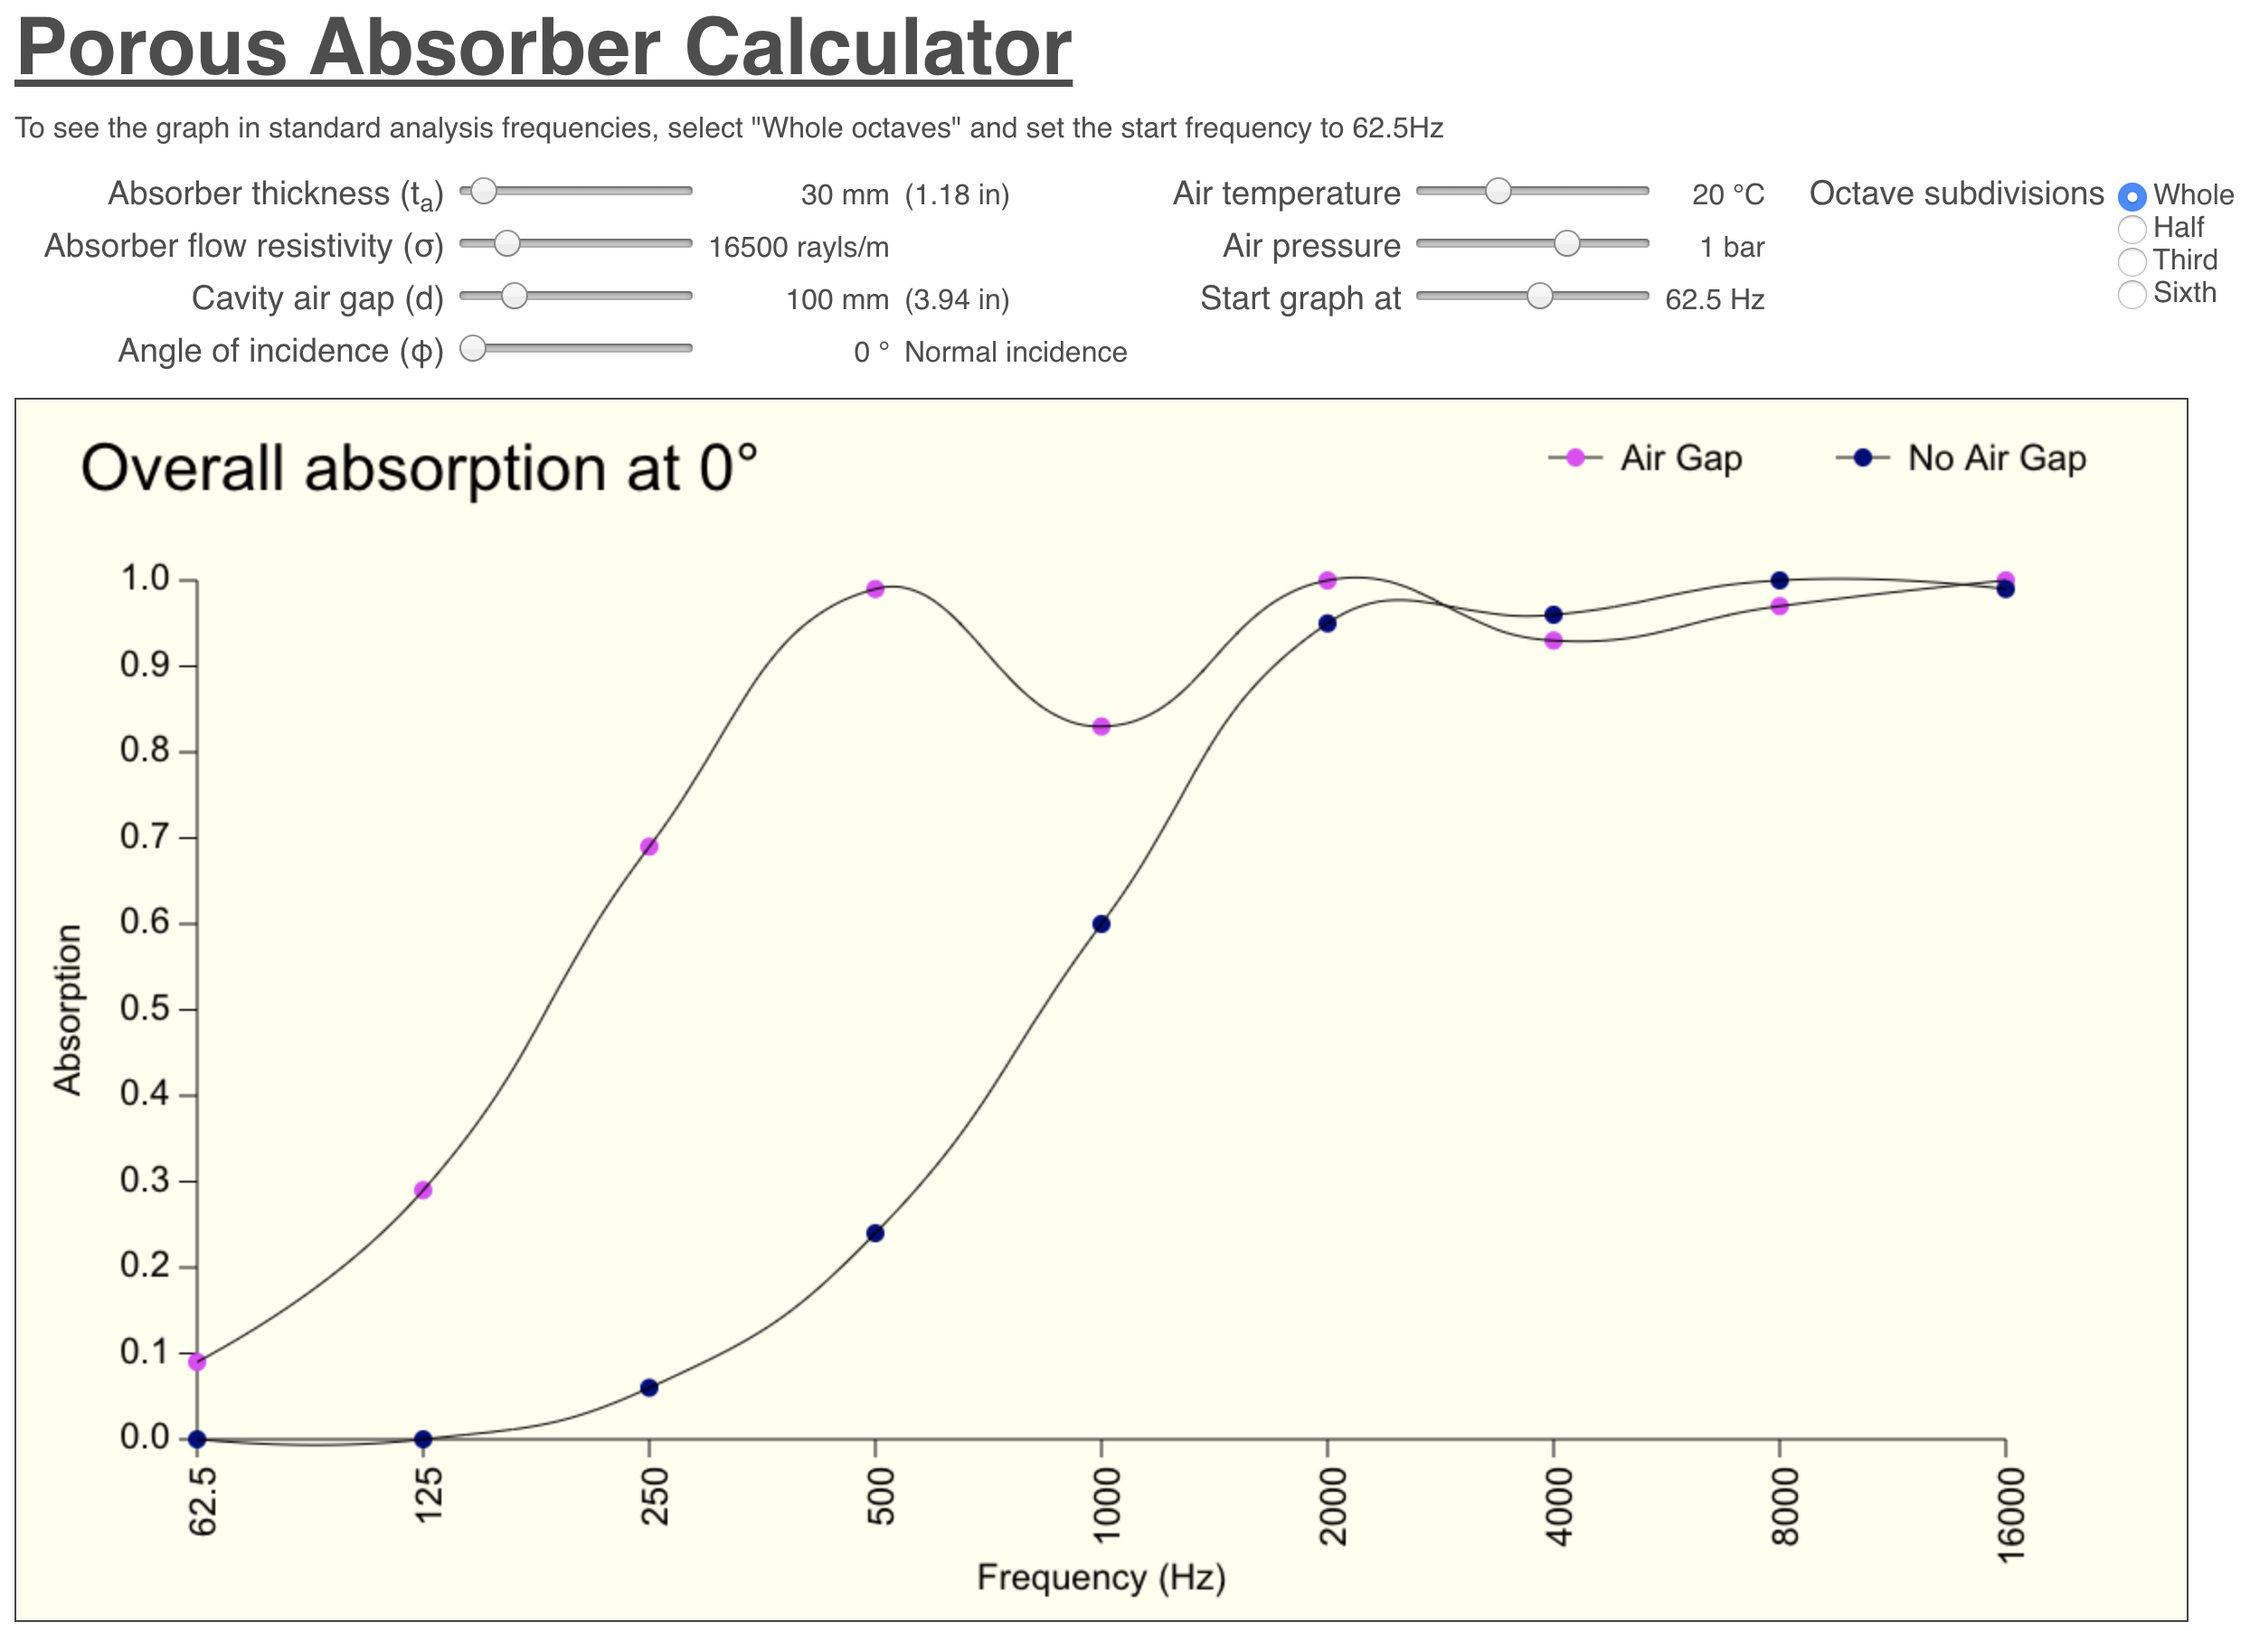
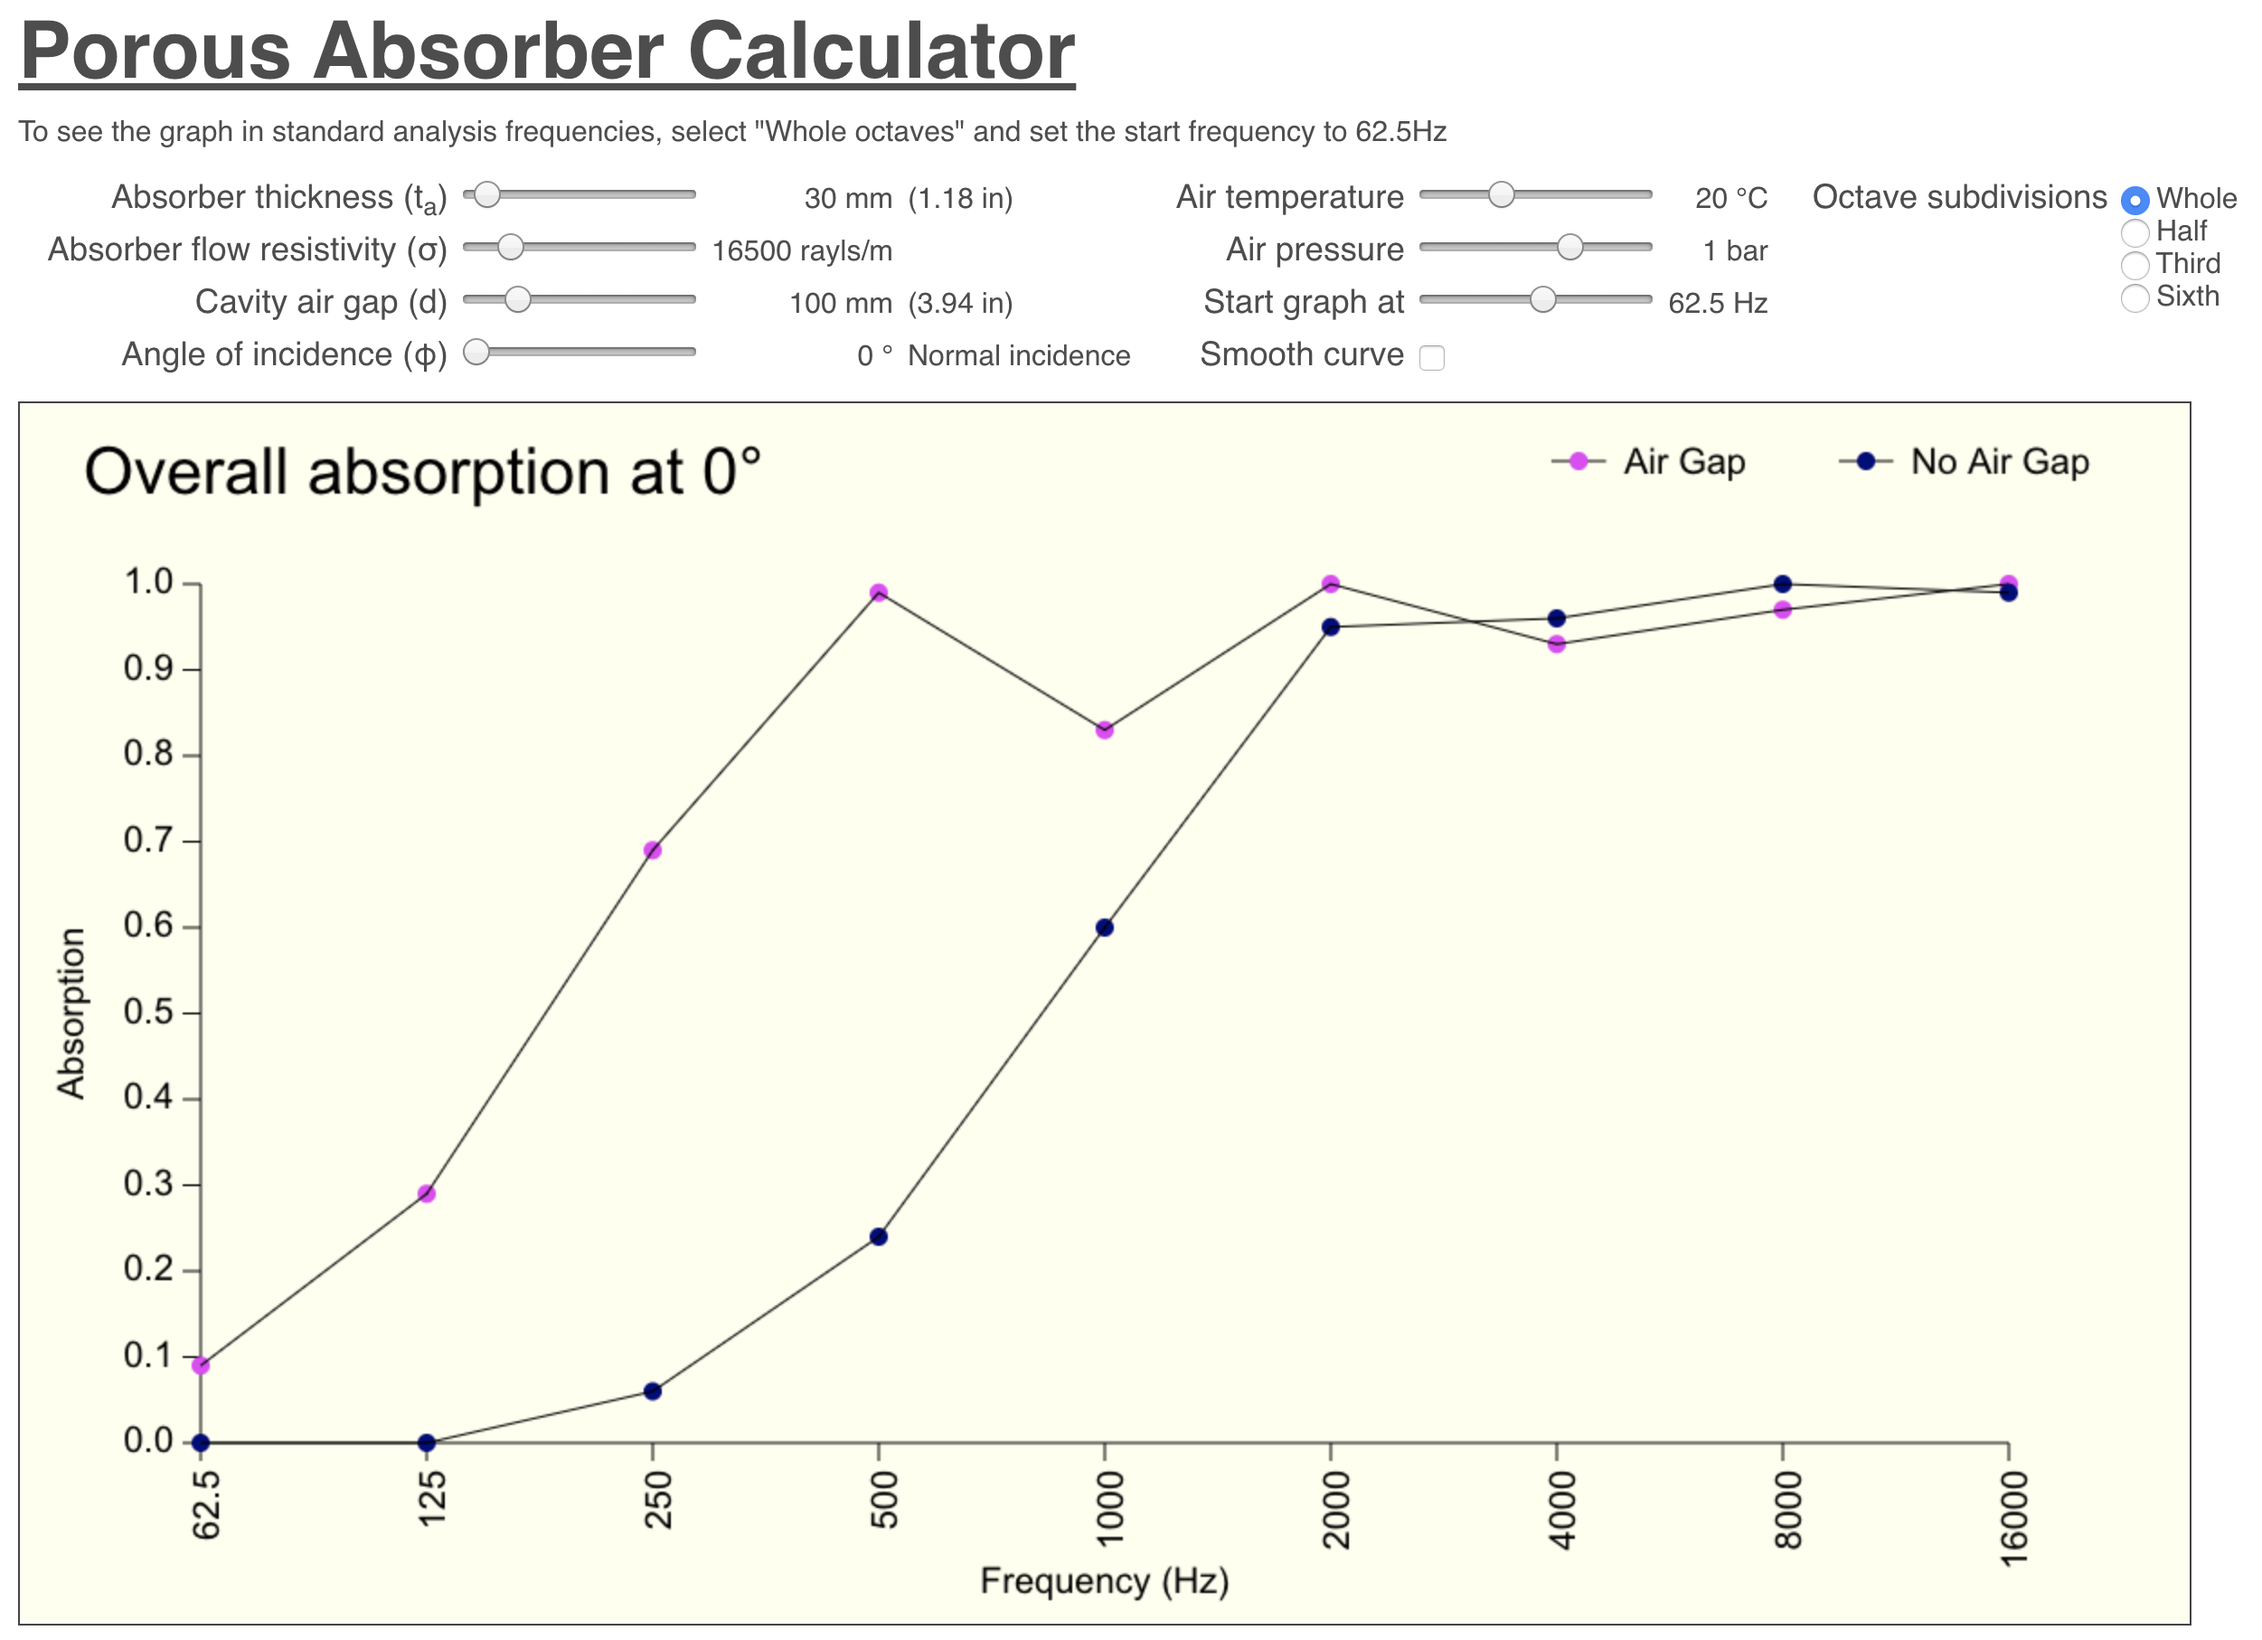
Make smooth curve plotting optional

diff --git a/js/src.js b/js/src.js
@@ -9,11 +9,17 @@
 const idiot = val => val
 
 // Fetch required input values from the DOM
-const fetchElementValue = parseFn => elementId => parseFn(document.getElementById(elementId).value)
+function $(elementId) {
+  return document.getElementById(elementId)
+}
 
-const fetchFloat = fetchElementValue(parseFloat)
-const fetchInt   = fetchElementValue(parseInt)
-const fetchText  = fetchElementValue(idiot)
+const fetchParsedElementValue = parseFn => elementId => parseFn($(elementId).value)
+
+const fetchFloat = fetchParsedElementValue(parseFloat)
+const fetchInt   = fetchParsedElementValue(parseInt)
+const fetchText  = fetchParsedElementValue(idiot)
+
+const fetchCheckbox = elementId => $(elementId).checked
 
 const fetchRadio =
   elementId => {
@@ -27,16 +33,16 @@ const fetchRadio =
   }
 
 // Write string to element value
-const writeString = (elementId, val) => document.getElementById(elementId).value = val
+const writeString = (elementId, val) => $(elementId).value = val
 
-// Display range slider value and convert its metric value to imperial units
+// Display input values and convert to alternative units if necessary
 const show_and_convert_units =
   field => {
     // console.log(`${JSON.stringify(field)}`)
 
     let value    = field.fetch(field.id)
-    let value_el = document.getElementById(`${field.id}_value`)
-    let unit_el  = document.getElementById(`${field.id}_units`)
+    let value_el = $(`${field.id}_value`)
+    let unit_el  = $(`${field.id}_units`)
 
     value_el ? show_units(value, value_el, field)   : undefined
     unit_el  ? convert_units(value, unit_el, field) : undefined
@@ -91,14 +97,15 @@ const to_imperial = (units, val) => {
  * The WASM moduile returns either the success value "Ok" or an array of error messages
  **********************************************************************************************************************/
 const dom_metadata = [
-  { id : "absorber_thickness_mm", type : "int",    units : "mm",      fetch : fetchInt   }
-, { id : "flow_resistivity",      type : "int",    units : "rayls/m", fetch : fetchInt   }
-, { id : "air_gap_mm",            type : "int",    units : "mm",      fetch : fetchInt   }
-, { id : "angle",                 type : "int",    units : "°",       fetch : fetchInt   }
-, { id : "start_graph_freq",      type : "float",  units : "Hz",      fetch : fetchFloat }
-, { id : "subdivision",           type : "int",    units : "each",    fetch : fetchRadio }
-, { id : "air_temp",              type : "int",    units : "°C",      fetch : fetchInt   }
-, { id : "air_pressure",          type : "int",    units : "bar",     fetch : fetchFloat }
+  { id : "absorber_thickness_mm", units : "mm",      fetch : fetchInt      }
+, { id : "flow_resistivity",      units : "rayls/m", fetch : fetchInt      }
+, { id : "air_gap_mm",            units : "mm",      fetch : fetchInt      }
+, { id : "angle",                 units : "°",       fetch : fetchInt      }
+, { id : "start_graph_freq",      units : "Hz",      fetch : fetchFloat    }
+, { id : "smooth_curve",          units : "each",    fetch : fetchCheckbox }
+, { id : "subdivision",           units : "each",    fetch : fetchRadio    }
+, { id : "air_temp",              units : "°C",      fetch : fetchInt      }
+, { id : "air_pressure",          units : "bar",     fetch : fetchFloat    }
 ]
 
 /***********************************************************************************************************************

diff --git a/index.html b/index.html
@@ -81,6 +81,11 @@
             <div class="param_cell"><input type="range" min="20" max="100" step="0.5" value="62.5" id="start_graph_freq" oninput="update_screen()"></div>
             <div class="param_cell unit" id="start_graph_freq_value"></div>
           </div>
+
+          <div class="param_row">
+            <div class="param_cell desc">Smooth curve</div>
+            <div class="param_cell"><input type="checkbox" id="smooth_curve" oninput="update_screen()"></div>
+          </div>
         </div>
   
         <div class="param_cell">

diff --git a/src/render.rs b/src/render.rs
@@ -43,7 +43,6 @@ const LABEL_FONT_SIZE : f64  = 20.0;
 const TICK_LENGTH    : f64 = 10.0;
 const TICK_LABEL_GAP : f64 = 5.0;
 const POINT_RADIUS   : f64 = 5.0;
-const TENSION        : f64 = 0.45;
 
 // *********************************************************************************************************************
 // Interface to browser functionality
@@ -102,8 +101,8 @@ pub fn plot(
   );
 
   draw_axes(&canvas, &display_cfg);
-  draw_splines(&canvas, &absorber_info.air_gap,       &air_gap_series.point_colour);
-  draw_splines(&canvas, &absorber_info.no_air_gap, &no_air_gap_series.point_colour);
+  draw_splines(&canvas, &absorber_info.air_gap,       &air_gap_series.point_colour, &display_cfg.smooth_curve);
+  draw_splines(&canvas, &absorber_info.no_air_gap, &no_air_gap_series.point_colour, &display_cfg.smooth_curve);
 }
 
 
@@ -446,7 +445,7 @@ fn distance(pt1: &PlotPoint, pt2: &PlotPoint) -> f64 {
 
 // - - - - - - - - - - - - - - - - - - - - - - - - - - - - - - - - - - - - - - - - - - - - - - - - - - - - - - - - - - -
 // Generate the two control points that lie between the three supplied plot points
-fn gen_control_points(pt1: &PlotPoint, pt2: &PlotPoint, pt3: &PlotPoint) -> Vec<PlotPoint> {
+fn gen_control_points(pt1: &PlotPoint, pt2: &PlotPoint, pt3: &PlotPoint, tension : f64) -> Vec<PlotPoint> {
   // Vector from start point to finish point
   // This is used to determine the gradient of the lines through the control points
   let x_vec = pt3.x - pt1.x;
@@ -458,8 +457,8 @@ fn gen_control_points(pt1: &PlotPoint, pt2: &PlotPoint, pt3: &PlotPoint) -> Vec<
 
   // Return the coordinates of the two control points between the three current points
   return vec![
-    PlotPoint { x : pt2.x - x_vec * TENSION * d01 / d012, y : pt2.y - y_vec * TENSION * d01 / d012 }
-  , PlotPoint { x : pt2.x + x_vec * TENSION * d12 / d012, y : pt2.y + y_vec * TENSION * d12 / d012 }
+    PlotPoint { x : pt2.x - x_vec * tension * d01 / d012, y : pt2.y - y_vec * tension * d01 / d012 }
+  , PlotPoint { x : pt2.x + x_vec * tension * d12 / d012, y : pt2.y + y_vec * tension * d12 / d012 }
   ]
 }
 
@@ -484,10 +483,10 @@ fn draw_splines(
   canvas        : &web_sys::HtmlCanvasElement
 , abs_points    : &Vec<PlotPoint>
 , stroke_colour : &JsValue
+, smooth_curve  : &bool
 ) {
-  let my_name          = &"draw_splines";
-  let fn_boundary      = fn_boundary_trace(DEBUG, my_name);
-  let write_to_console = fn_trace(DEBUG, my_name);
+  let my_name     = &"draw_splines";
+  let fn_boundary = fn_boundary_trace(DEBUG, my_name);
 
   fn_boundary(true);
 
@@ -510,9 +509,10 @@ fn draw_splines(
 
   // Between each triplet of plot points, there will be two invisible control points
   let mut cps: Vec<PlotPoint> = vec!();
+  let tension : f64 = if *smooth_curve { 0.45 } else { 0.0 };
   
   for idx in 0..points.len() - 2 {
-    cps.append(&mut gen_control_points(&points[idx], &points[idx + 1], &points[idx + 2]));
+    cps.append(&mut gen_control_points(&points[idx], &points[idx + 1], &points[idx + 2], tension));
   }
 
   // Draw all the plot points

diff --git a/src/display.rs b/src/display.rs
@@ -93,6 +93,7 @@ fn gen_frequencies(graph_start_freq : &f64, subdivisions : &u32) -> Vec<f64> {
  */
 pub struct DisplayConfig {
   pub graph_start_freq : f64
+, pub smooth_curve     : bool
 , pub subdivisions     : u32
 , pub frequencies      : Vec<f64>
 }
@@ -100,10 +101,10 @@ pub struct DisplayConfig {
 
 impl DisplayConfig {
   pub fn default() -> DisplayConfig {
-    DisplayConfig::new(DEFAULT_FREQ, DEFAULT_SUBDIVISION).unwrap()
+    DisplayConfig::new(DEFAULT_FREQ, false, DEFAULT_SUBDIVISION).unwrap()
   }
 
-  pub fn new(start_freq_arg: f64, subdivisions_arg: u32) -> Result<DisplayConfig, DisplayError> {
+  pub fn new(start_freq_arg: f64, smooth_curve: bool, subdivisions_arg: u32) -> Result<DisplayConfig, DisplayError> {
     if start_freq_arg < START_FREQ ||
        start_freq_arg > END_FREQ {
       return Err(DisplayError::new(ErrType::Graph, start_freq_arg))
@@ -117,6 +118,7 @@ impl DisplayConfig {
       Ok(DisplayConfig {
           graph_start_freq : start_freq_arg
         , subdivisions     : subdivisions_arg
+        , smooth_curve     : smooth_curve
         , frequencies      : gen_frequencies(&start_freq_arg, &subdivisions_arg)
         })
   }

diff --git a/src/lib.rs b/src/lib.rs
@@ -75,6 +75,7 @@ pub fn porous_absorber_calculator(
 , air_gap_mm            : u32
 , angle                 : u32
 , graph_start_freq      : f64
+, smooth_curve          : bool
 , subdivisions          : u32
 , air_temp              : f64
 , air_pressure          : f64
@@ -93,7 +94,7 @@ pub fn porous_absorber_calculator(
     CavityConfig::default()
   });
 
-  let display_cfg = DisplayConfig::new(graph_start_freq, subdivisions).unwrap_or_else(|err: DisplayError| {
+  let display_cfg = DisplayConfig::new(graph_start_freq, smooth_curve, subdivisions).unwrap_or_else(|err: DisplayError| {
     error_msgs.push(String::from(err.description()));
     DisplayConfig::default()
   });
